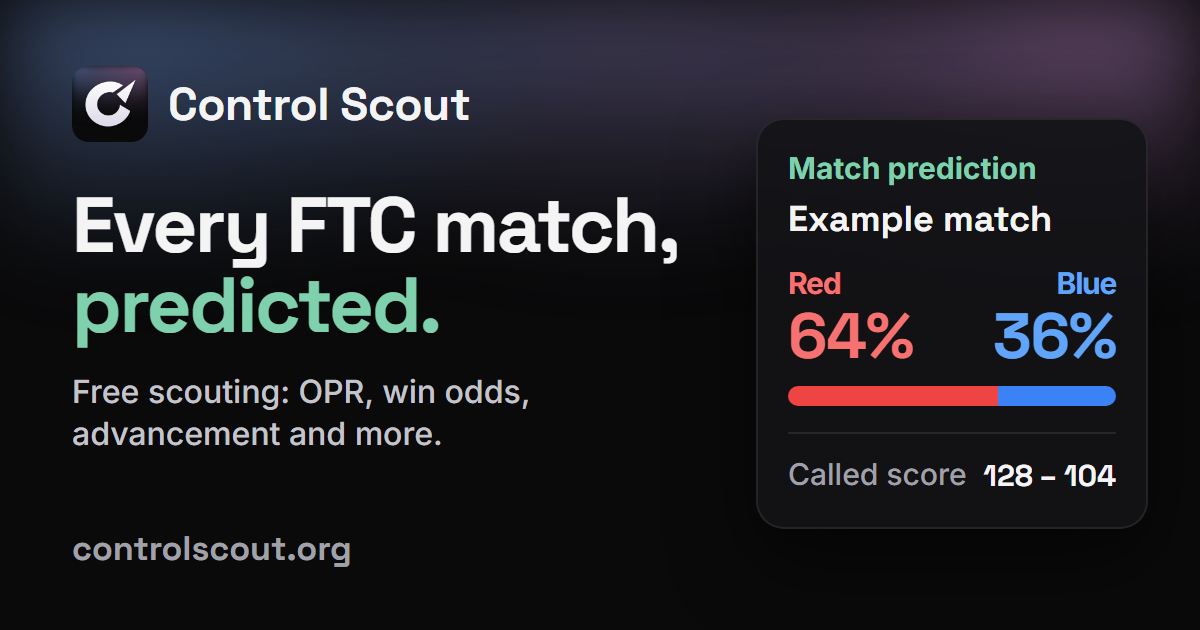
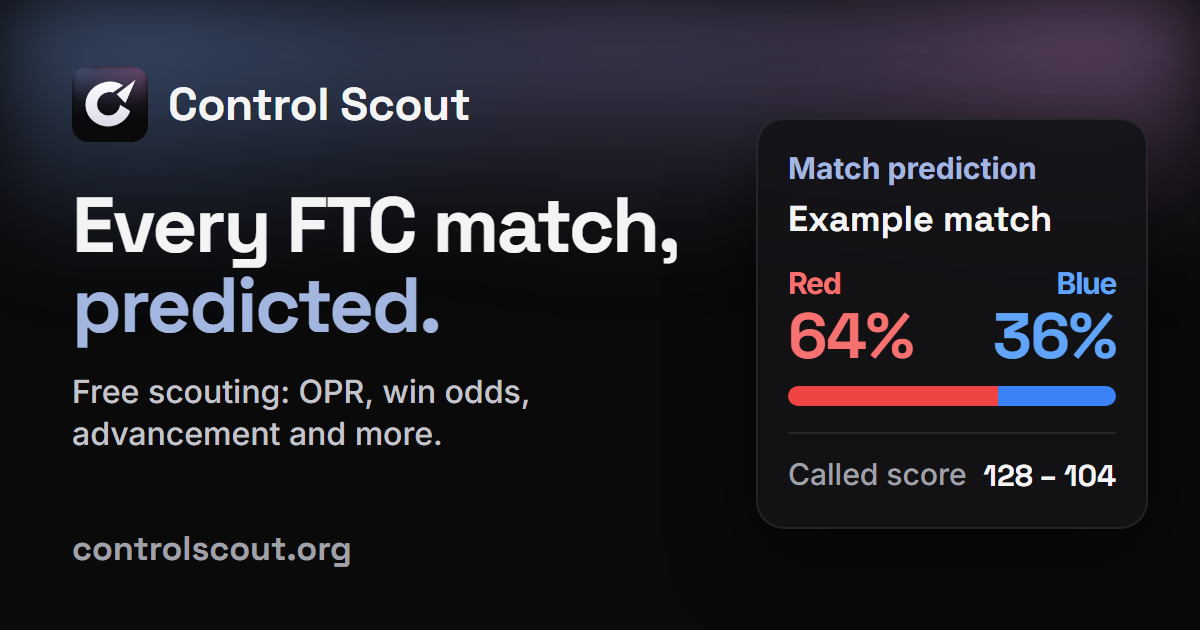
Share image: the accent is the wash's light slate blue, not mint

Changed region(s): [[0.0617, 0.4222, 0.37, 0.5429], [0.6475, 0.2413, 0.8633, 0.3016]]

diff --git a/scripts/og-image.ts b/scripts/og-image.ts
@@ -1,6 +1,6 @@
 // Renders public/og-image.png (1200×630), the link-preview card every page
 // points og:image / twitter:image at (Discord, iMessage, Slack, X). Same look as the site (v8): near-black with the
-// wash across the top, white type, mint as the one accent,
+// wash across the top, white type, the wash's light slate blue as the one accent,
 // the brand icon, Space Grotesk + Inter. Re-run after a brand change:
 //   npx playwright install chromium   (once per machine; on Linux: --with-deps)
 //   npx tsx scripts/og-image.ts
@@ -34,12 +34,12 @@ body { width: 1200px; height: 630px; overflow: hidden; background: #0a0a0b; colo
 .brand img { width: 76px; height: 76px; }
 .name { font-family: SG; font-weight: 700; font-size: 46px; letter-spacing: -.01em; }
 h1 { font-family: SG; font-weight: 700; font-size: 78px; line-height: 1.02; letter-spacing: -.03em; margin-top: 44px; white-space: nowrap; }
-h1 em { font-style: normal; color: #7fd1ae; }
+h1 em { font-style: normal; color: #a3b6e0; }
 .sub { font-size: 32px; font-weight: 500; color: #c4c4cc; margin-top: 26px; line-height: 1.3; }
 .url { margin-top: auto; font-family: SG; font-weight: 700; font-size: 34px; color: #a1a1aa; }
 .card { position: absolute; right: 52px; top: 118px; width: 392px; border-radius: 28px; padding: 30px 30px 32px; background: rgba(20,20,23,.92);
   border: 2px solid rgba(255,255,255,.08); box-shadow: 0 30px 80px rgba(0,0,0,.55); }
-.tag { display: inline-block; font-weight: 700; font-size: 30px; color: #7fd1ae; }
+.tag { display: inline-block; font-weight: 700; font-size: 30px; color: #a3b6e0; }
 .title { font-family: SG; font-weight: 700; font-size: 36px; margin-top: 10px; }
 .odds { display: flex; justify-content: space-between; align-items: flex-end; margin-top: 26px; font-family: SG; font-weight: 700; }
 .odds div { font-size: 64px; line-height: 1; letter-spacing: -.02em; }
